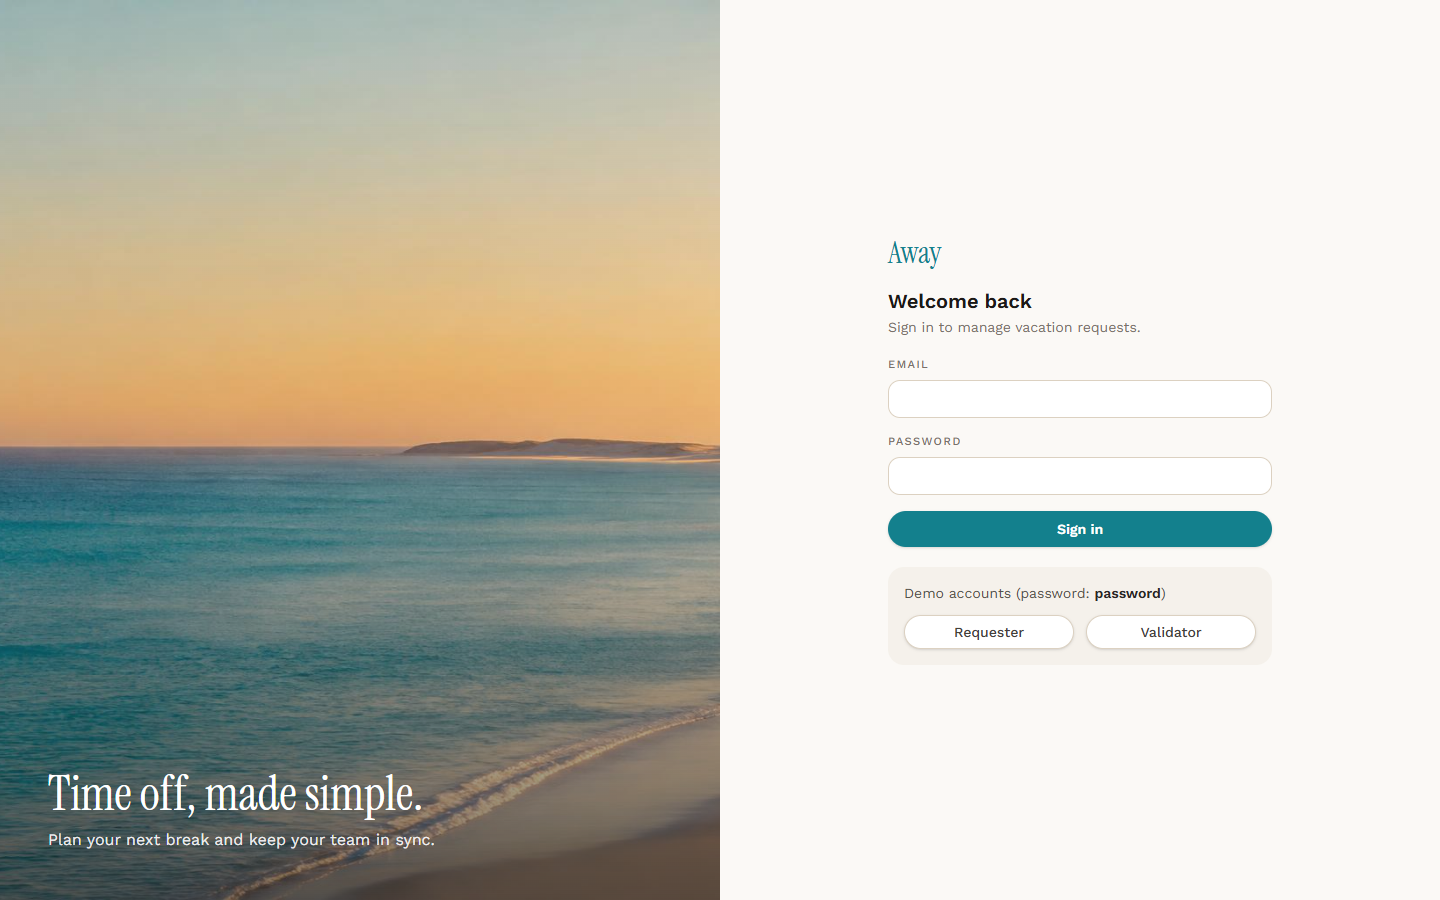
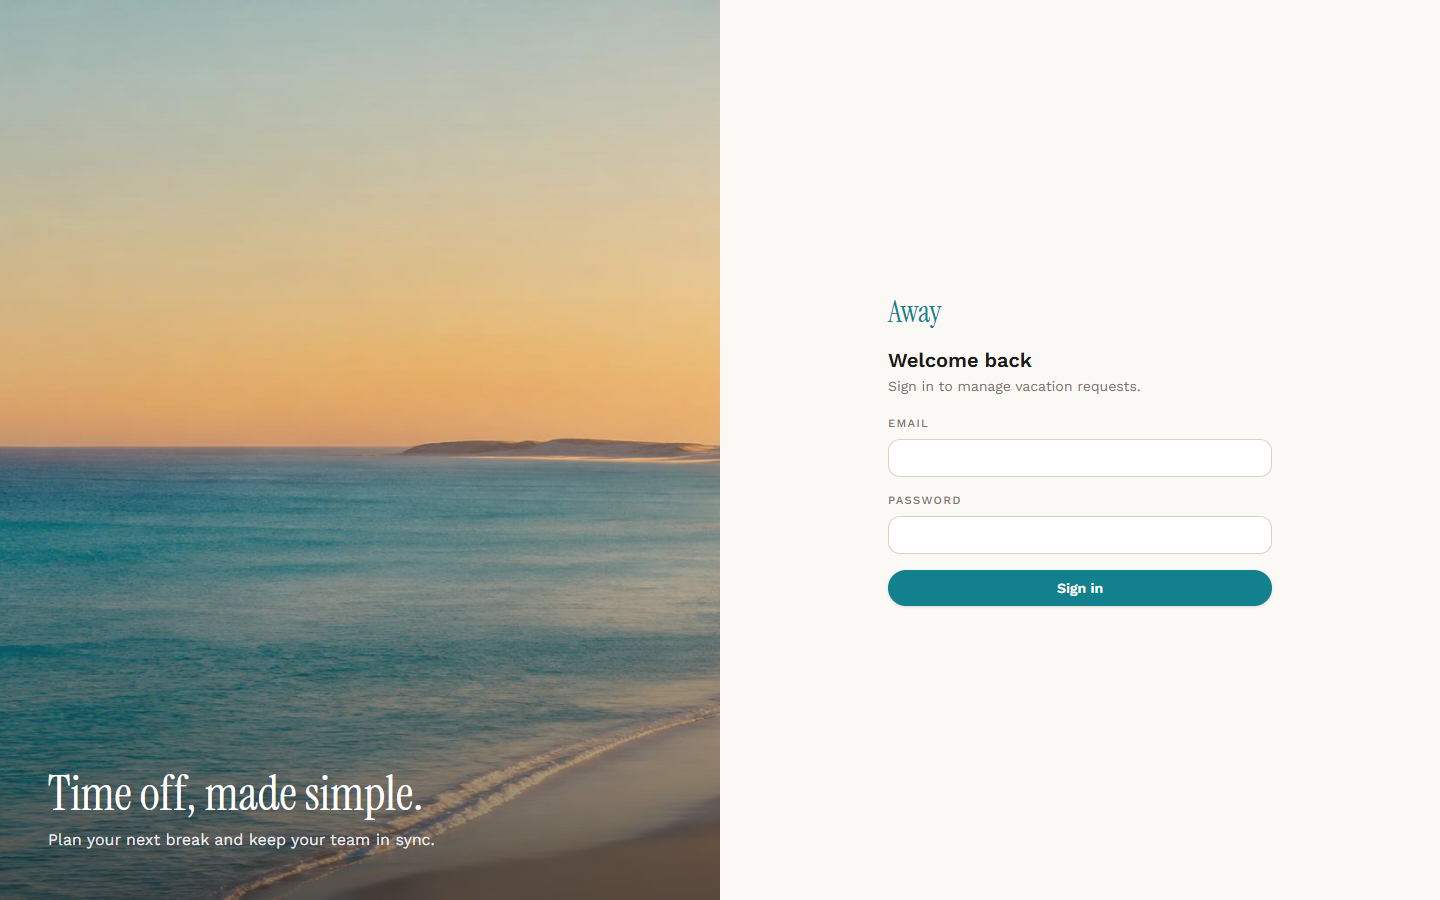
fix(frontend): remove demo accounts box from the login page

Changed region(s): [[0.5938, 0.5289, 0.9062, 0.7156], [0.5938, 0.28, 0.7812, 0.4356], [0.625, 0.4667, 0.6562, 0.4978]]

diff --git a/frontend/src/views/LoginView.vue b/frontend/src/views/LoginView.vue
@@ -2,7 +2,7 @@
   LoginView: split screen — beach photo with the tagline on the left, sign-in form on the right.
   On small screens the photo becomes a short banner above the form.
 
-  - "Demo accounts" buttons fill the form with a seeded account and sign in at once.
+  - Demo accounts are listed in the README (they are not shown on the screen).
   - A wrong password shows the API message ("Invalid email or password.") on the form:
     the Axios 401 interceptor deliberately ignores the login request.
   - After login, the user goes back to the page they asked for (?redirect=...), or to their home page.
@@ -15,13 +15,6 @@ import Spinner from "@/components/Spinner.vue";
 import { homeRouteFor } from "@/router";
 import { useAuthStore } from "@/stores/auth";
 import { getErrorMessage } from "@/utils/api-errors";
-
-// Seeded accounts (see the README); they all share the same password.
-const DEMO_PASSWORD = "password";
-const DEMO_ACCOUNTS = [
-  { label: "Requester", email: "maya.levi@example.com" },
-  { label: "Validator", email: "sarah.manager@example.com" },
-];
 
 const auth = useAuthStore();
 const route = useRoute();
@@ -58,13 +51,6 @@ async function submit(): Promise<void> {
   } finally {
     submitting.value = false;
   }
-}
-
-// Fills the form with a demo account and signs in.
-function signInAs(accountEmail: string): void {
-  email.value = accountEmail;
-  password.value = DEMO_PASSWORD;
-  submit();
 }
 </script>
 
@@ -135,25 +121,6 @@ function signInAs(accountEmail: string): void {
             {{ submitting ? "Signing in…" : "Sign in" }}
           </button>
         </form>
-
-        <div class="mt-5 rounded-2xl bg-sand-100 p-4">
-          <p class="text-sm text-stone-600">
-            Demo accounts (password: <span class="font-semibold text-stone-800">{{ DEMO_PASSWORD }}</span>)
-          </p>
-          <div class="mt-3 grid grid-cols-2 gap-3">
-            <button
-              v-for="account in DEMO_ACCOUNTS"
-              :key="account.email"
-              type="button"
-              class="btn-secondary"
-              :disabled="submitting"
-              :title="account.email"
-              @click="signInAs(account.email)"
-            >
-              {{ account.label }}
-            </button>
-          </div>
-        </div>
       </div>
     </main>
   </div>

diff --git a/README.md b/README.md
@@ -21,7 +21,7 @@ Both roles share a **team planning** calendar of approved absences.
 ## Table of contents
 
 1. [Quick start](#quick-start)
-2. [Demo accounts](#demo-accounts)
+2. [How to sign in](#how-to-sign-in)
 3. [Installation and run, step by step](#installation-and-run-step-by-step)
 4. [Requirements coverage](#requirements-coverage)
 5. [Architecture](#architecture)
@@ -59,24 +59,23 @@ npm ci
 npm run dev                   # App on http://localhost:5173
 ```
 
-Open **http://localhost:5173** and click **Requester** or **Validator** on the login page.
+Open **http://localhost:5173** and sign in with one of the accounts below.
 
-## Demo accounts
+## How to sign in
 
-All accounts use the password **`password`**.
+**Every account uses the same password: `password`**
 
-| Role | Email | Notes |
-|------|-------|-------|
-| Validator | `sarah.manager@example.com` | Reviews every request |
-| Requester | `maya.levi@example.com` | Has Pending, Approved and Rejected requests |
-| Requester | `daniel.cohen@example.com` | |
-| Requester | `noa.katz@example.com` | |
-| Requester | `lucas.martin@example.com` | |
-| Requester | `emma.dubois@example.com` | |
+| Sign in as | Email | What you can do |
+|------------|-------|-----------------|
+| **Manager** (Validator) | `sarah.manager@example.com` | See all requests, filter them, approve or reject, team planning |
+| **Employee** (Requester) | `maya.levi@example.com` | Submit requests, follow their status, team planning |
 
-The seed creates **25 requests** in mixed statuses (10 Pending, 10 Approved, 5 Rejected), with dates
-relative to today, so the dashboard pagination, the filters and the team planning always have data.
-It is **idempotent**: run `npm run db:seed` again at any time to reset the demo data.
+More employees, same password: `daniel.cohen@example.com`, `noa.katz@example.com`,
+`lucas.martin@example.com`, `emma.dubois@example.com`.
+
+These accounts are created by `npm run db:seed`, together with **25 requests** in mixed statuses
+(10 Pending, 10 Approved, 5 Rejected) whose dates are relative to today, so the dashboard, the filters
+and the team planning always have data. Run `npm run db:seed` again at any time to reset the demo data.
 
 ---
 
@@ -443,7 +442,7 @@ users ... LIMIT`, one `COUNT`), whatever the page size: no N+1.
 
 | Route | Role | Page |
 |-------|------|------|
-| `/login` | guests | Split screen: beach photo + sign-in form, one-click demo accounts |
+| `/login` | guests | Split screen: beach photo + sign-in form |
 | `/my-requests` | Requester | New request form + paginated list with status badges and rejection comments |
 | `/dashboard` | Validator | Filters (status, employee), table, pagination, approve / reject dialog |
 | `/team-planning` | both | Month grid of approved absences, previous / next month |
